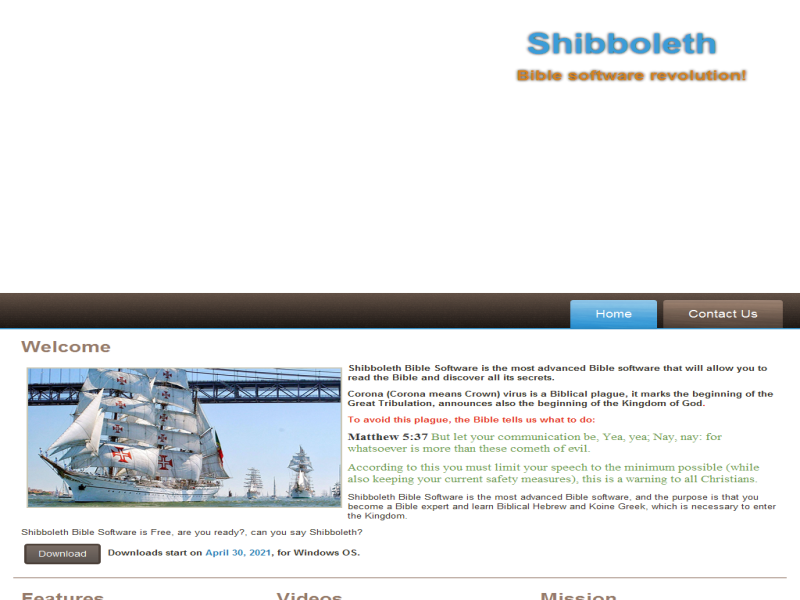
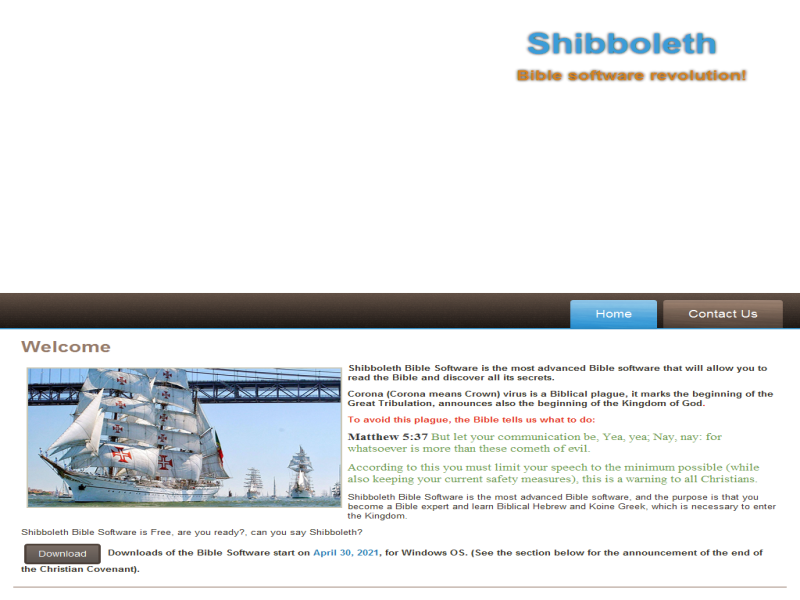
5

Changed region(s): [[0.0, 0.93, 1.0, 1.0], [0.1875, 0.9, 0.9688, 0.93]]

diff --git a/index.html b/index.html
@@ -100,7 +100,7 @@ StatCounter"></a></div></noscript>
         </p><p>
         </p><p><span style="font-weight: bold;">Shibboleth Bible Software is the most advanced Bible software that will allow you to read the Bible and discover all its secrets.</span></p><p><span style="font-weight: bold;">Corona (Corona means Crown) virus is a Biblical plague, it&nbsp;marks the beginning of the Great Tribulation, announces also the beginning of the Kingdom of God<span style="color: rgb(226, 52, 29);">.</span></span></p><p><span style="color: rgb(226, 52, 29); font-weight: bold;">To avoid this plague, the Bible tells us what to do:</span></p><p><span style="font-family: 'Century Gothic';"><span class="verse" style="box-sizing: border-box; color: rgb(51, 51, 51); font-size: 1.3em; background-color: rgb(255, 255, 255); font-weight: bold;">Matthew 5:37<span style="color: #68954B;">&nbsp;</span></span><span class="verse" style="box-sizing: border-box; font-size: 1.3em; font-weight: 400; background-color: #FFFFFF; color: #68954B;"><span style="color: #68954B;">But let your communication be, Yea, yea; Nay, nay: for whatsoever is more than these cometh of evil</span>.</span></span><span style="font-weight: bold;"><span style="color: rgb(226, 52, 29);"><br></span></span></p><p><span style="color: rgb(104, 149, 75); font-family: 'Century Gothic'; font-size: 17px;">According to this you must limit your speech to the minimum possible (while also keeping your current safety measures), this is a warning to all Christians.</span></p>
         <p>Shibboleth Bible Software is the most advanced Bible software, and the purpose is that you become a Bible expert and learn Biblical Hebrew and Koine Greek, which is necessary to enter the Kingdom.</p><p>Shibboleth Bible Software is Free, are you ready?, can you say Shibboleth?</p>
-        <p>&nbsp;<a href="#" class="art-button">Download</a>&nbsp;<span style="font-weight: bold;">Downloads start on</span> <span style="font-weight: bold; color: #2379AF;">April 30</span><span style="font-weight: bold;"><span style="color: #2379AF;">, 2021</span>, for Windows OS.</span><br></p>
+        <p>&nbsp;<a href="#" class="art-button">Download</a>&nbsp;<span style="font-weight: bold;">Downloads of the Bible Software start on</span> <span style="font-weight: bold; color: #2379AF;">April 30</span><span style="font-weight: bold;"><span style="color: #2379AF;">, 2021</span>, for Windows OS. (See the section below for the announcement of the end of the Christian Covenant).</span><br></p>
     </div>
     </div>
 </div>

diff --git a/software.html b/software.html
@@ -100,7 +100,7 @@ StatCounter"></a></div></noscript>
         </p><p>
         </p><p><span style="font-weight: bold;">Shibboleth Bible Software is the most advanced Bible software that will allow you to read the Bible and discover all its secrets.</span></p><p><span style="font-weight: bold;">Corona (Corona means Crown) virus is a Biblical plague, it&nbsp;marks the beginning of the Great Tribulation, announces also the beginning of the Kingdom of God<span style="color: rgb(226, 52, 29);">.</span></span></p><p><span style="color: rgb(226, 52, 29); font-weight: bold;">To avoid this plague, the Bible tells us what to do:</span></p><p><span style="font-family: 'Century Gothic';"><span class="verse" style="box-sizing: border-box; color: rgb(51, 51, 51); font-size: 1.3em; background-color: rgb(255, 255, 255); font-weight: bold;">Matthew 5:37<span style="color: #68954B;">&nbsp;</span></span><span class="verse" style="box-sizing: border-box; font-size: 1.3em; font-weight: 400; background-color: #FFFFFF; color: #68954B;"><span style="color: #68954B;">But let your communication be, Yea, yea; Nay, nay: for whatsoever is more than these cometh of evil</span>.</span></span><span style="font-weight: bold;"><span style="color: rgb(226, 52, 29);"><br></span></span></p><p><span style="color: rgb(104, 149, 75); font-family: 'Century Gothic'; font-size: 17px;">According to this you must limit your speech to the minimum possible (while also keeping your current safety measures), this is a warning to all Christians.</span></p>
         <p>Shibboleth Bible Software is the most advanced Bible software, and the purpose is that you become a Bible expert and learn Biblical Hebrew and Koine Greek, which is necessary to enter the Kingdom.</p><p>Shibboleth Bible Software is Free, are you ready?, can you say Shibboleth?</p>
-        <p>&nbsp;<a href="#" class="art-button">Download</a>&nbsp;<span style="font-weight: bold;">Downloads start on</span> <span style="font-weight: bold; color: #2379AF;">April 30</span><span style="font-weight: bold;"><span style="color: #2379AF;">, 2021</span>, for Windows OS.</span><br></p>
+        <p>&nbsp;<a href="#" class="art-button">Download</a>&nbsp;<span style="font-weight: bold;">Downloads of the Bible Software start on</span> <span style="font-weight: bold; color: #2379AF;">April 30</span><span style="font-weight: bold;"><span style="color: #2379AF;">, 2021</span>, for Windows OS. (See the section below for the announcement of the end of the Christian Covenant).</span><br></p>
     </div>
     </div>
 </div>
